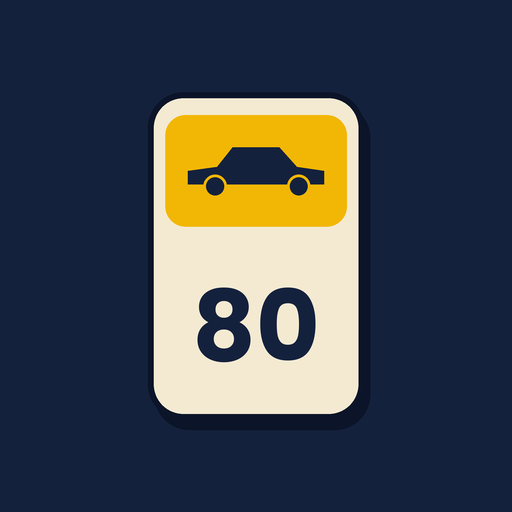
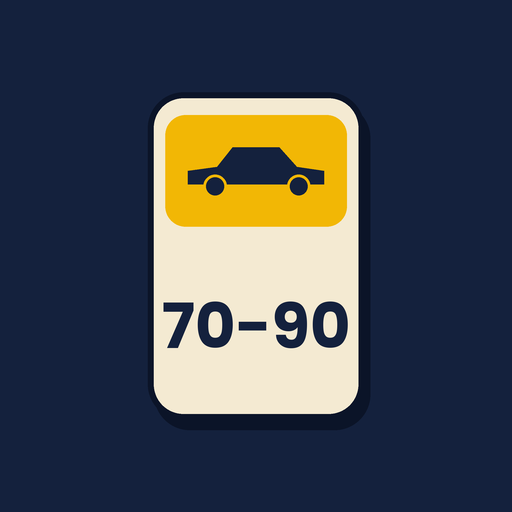
Add files via upload

Changed region(s): [[0.3125, 0.5625, 0.6875, 0.7188]]

diff --git a/index.html b/index.html
@@ -6,8 +6,8 @@
 <meta name="theme-color" content="#14213D">
 <meta name="apple-mobile-web-app-capable" content="yes">
 <meta name="mobile-web-app-capable" content="yes">
-<meta name="apple-mobile-web-app-title" content="Naipes 80-90">
-<title>Naipes: autos argentinos de los 80 a los 90</title>
+<meta name="apple-mobile-web-app-title" content="Naipes 70-90">
+<title>Naipes: autos argentinos de los 70 a los 90</title>
 <link rel="manifest" href="manifest.json">
 <link rel="icon" href="icon-192.png">
 <link rel="apple-touch-icon" href="icon-192.png">
@@ -138,7 +138,7 @@ body{background:radial-gradient(120% 45% at 50% -8%,#33468a77,#0000 65%),repeati
 .btn.big:active{transform:translateY(3px);border-bottom-width:2px;box-shadow:0 3px 8px #0006}
 .hd{position:relative;overflow:hidden;border:3px solid var(--gold);border-radius:22px;padding:22px 16px 18px;background:linear-gradient(155deg,#E4572E 0%,#B3261E 55%,#6E0F1A 100%);box-shadow:0 8px 0 #0008,0 14px 26px #0008}
 .hd::before{content:"";position:absolute;left:0;right:0;top:0;height:12px;background:repeating-conic-gradient(#fff 0 25%,#111 0 50%) 0 0/12px 12px;opacity:.85}
-.hd::after{content:"80·90";position:absolute;right:-8px;bottom:-26px;font-family:var(--disp);font-size:120px;line-height:1;color:#ffffff1f;letter-spacing:.04em;pointer-events:none}
+.hd::after{content:"70·90";position:absolute;right:-8px;bottom:-26px;font-family:var(--disp);font-size:120px;line-height:1;color:#ffffff1f;letter-spacing:.04em;pointer-events:none}
 .hd .yr{font-family:var(--disp);letter-spacing:.34em;font-size:16px;color:#FFE27A;margin-top:6px}
 .hd h1{font-size:46px;line-height:.98;margin-top:2px;text-shadow:0 3px 0 #0007;color:#fff}
 .hd h1 em{font-style:normal;color:var(--gold)}
@@ -359,21 +359,21 @@ const TEC = [
  ['Dodge','1500','sedan',1.5,72,19,1971,'','dodge-1500',0,0],
  ['Dodge','1500 1.8','sedan',1.8,92,19,1971,'','dodge-1500',0,0],
  ['Fiat','1600 Coupé','coupe',1.6,80,3,1970,'Valor aproximado','fiat-1600-coupe',1,1],
- ['Fiat','128 1.1','sedan',1.1,55,19,1971,'Potencia en PS','fiat-128',0,0],
- ['Fiat','128 1.3','sedan',1.3,60,19,1971,'Potencia en PS','fiat-128',0,0],
- ['Fiat','125','sedan',1.6,90,7,1975,'Potencia en PS','fiat-125',0,0],
- ['Fiat','125 S','sedan',1.6,100,7,1975,'Potencia en PS','fiat-125',0,0],
- ['Fiat','133','hatch',0.9,40,5,1977,'Potencia en PS','fiat-133',0,0],
+ ['Fiat','128 1.1','sedan',1.1,55,19,1971,'Potencia en CV','fiat-128',0,0],
+ ['Fiat','128 1.3','sedan',1.3,60,19,1971,'Potencia en CV','fiat-128',0,0],
+ ['Fiat','125','sedan',1.6,90,7,1975,'Potencia en CV','fiat-125',0,0],
+ ['Fiat','125 S','sedan',1.6,100,7,1975,'Potencia en CV','fiat-125',0,0],
+ ['Fiat','133','hatch',0.9,40,5,1977,'Potencia en CV','fiat-133',0,0],
  ['Ford','Ranchero','pickup',3.0,105,16,1971,'Valor aproximado','ford-ranchero',1,1],
- ['Ford','Taunus L','sedan',2.0,92,9,1974,'Potencia SAE','ford-taunus',0,0],
- ['Ford','Taunus GXL','sedan',2.3,122,9,1974,'Potencia SAE','ford-taunus',0,0],
- ['Ford','Taunus Coupé SP5','sedan',2.3,132,9,1974,'Potencia SAE','ford-taunus',0,0],
+ ['Ford','Taunus L','sedan',2.0,92,9,1974,'Potencia SAE (bruta), en CV','ford-taunus',0,0],
+ ['Ford','Taunus GXL','sedan',2.3,122,9,1974,'Potencia SAE (bruta), en CV','ford-taunus',0,0],
+ ['Ford','Taunus Coupé SP5','sedan',2.3,132,9,1974,'Potencia SAE (bruta), en CV','ford-taunus',0,0],
  ['IAME','Rastrojero Conosur','sedan',1.5,55,5,1974,'Valor aproximado','iame-conosur',1,1],
  ['Mercedes','220 D Pickup','pickup',2.2,60,4,1972,'','mercedes-220d',0,0],
  ['Opel','K 180','sedan',1.8,83,4,1974,'','opel-k180',0,0],
  ['Renault','12 TS','sedan',1.4,74,24,1970,'','renault-12',0,0],
- ['Renault','12 Alpine','sedan',1.4,110,24,1970,'Potencia en PS','renault-12',0,0],
- ['Renault','12 Gordini (Francia)','sedan',1.6,113,24,1970,'Potencia en PS','renault-12',0,0],
+ ['Renault','12 Alpine','sedan',1.4,110,24,1970,'Potencia en CV','renault-12',0,0],
+ ['Renault','12 Gordini (Francia)','sedan',1.6,113,24,1970,'Potencia en CV','renault-12',0,0],
  ['Chevrolet','D-20 Diésel','pickup',4.0,89,4,1993,'potencia convertida a CV (fuente en hp)','chevrolet-d20',0,0],
  ['Chevrolet','D-20 Turbo','pickup',4.0,125,4,1993,'potencia convertida a CV (fuente en hp), 1991','chevrolet-d20',0,0],
  ['Chevrolet','D-20 Turbo Plus','pickup',4.0,149,4,1993,'potencia convertida a CV (fuente en hp), 1995','chevrolet-d20',0,0],
@@ -483,7 +483,7 @@ const HIS = [
  ['Volkswagen','Caddy','Utilitario',1996,2008,'vw-caddy','van'],
 ];
 // Período del juego: se muestran solo los modelos lanzados desde este año (los datos de antes siguen en TEC y HIS)
-const AMIN = 1980;
+const AMIN = 1970;
 const MODELOS = HIS.filter(h => h[3] >= AMIN).map(h => ({key:h[5], marca:h[0], modelo:h[1], shape:h[6]}));
 const NOMBRE = {}; MODELOS.forEach(m => NOMBRE[m.key] = m);
 const FICHAS = {
@@ -1439,7 +1439,7 @@ function resumenDia(h){
 }
 function textoDia(h){
   const r = rachaVigente(), url = location.origin + location.pathname.replace(/index\.html$/, '');
-  return `Naipes 80-90 · Desafío #${h.num} (${fechaCorta(h.clave)})\n${h.fin === 'you' ? '🏆' : h.fin === 'cpu' ? '🏁' : '🤝'} ${resumenDia(h)} · Mazo ${DECKS[h.deck].nombre}\n${h.hist.split('').map(x => EMO[x]).join('')}${r > 1 ? '\n🔥 Racha: ' + r + ' días' : ''}\n${url}`;
+  return `Naipes 70-90 · Desafío #${h.num} (${fechaCorta(h.clave)})\n${h.fin === 'you' ? '🏆' : h.fin === 'cpu' ? '🏁' : '🤝'} ${resumenDia(h)} · Mazo ${DECKS[h.deck].nombre}\n${h.hist.split('').map(x => EMO[x]).join('')}${r > 1 ? '\n🔥 Racha: ' + r + ' días' : ''}\n${url}`;
 }
 async function compartirTexto(){
   const h = S.dia.hecho; if(!h) return;
@@ -1454,7 +1454,7 @@ async function imagenDia(h){
   let g = x.createLinearGradient(0,0,0,H); g.addColorStop(0,'#16254a'); g.addColorStop(1,'#0B1428'); x.fillStyle = g; x.fillRect(0,0,W,H);
   g = x.createLinearGradient(0,0,W,380); g.addColorStop(0,'#E4572E'); g.addColorStop(.55,'#B3261E'); g.addColorStop(1,'#6E0F1A'); x.fillStyle = g; x.fillRect(0,0,W,380);
   for(let i=0;i<W/30;i++) for(let j=0;j<2;j++){ x.fillStyle = (i+j)%2 ? '#111' : '#fff'; x.fillRect(i*30, j*30, 30, 30); }
-  x.textAlign = 'center'; x.fillStyle = '#fff'; x.font = '140px "Bebas Neue", Impact, sans-serif'; x.fillText('NAIPES 80-90', W/2, 215);
+  x.textAlign = 'center'; x.fillStyle = '#fff'; x.font = '140px "Bebas Neue", Impact, sans-serif'; x.fillText('NAIPES 70-90', W/2, 215);
   x.fillStyle = '#FFE27A'; x.font = '700 44px "Barlow Condensed", Arial Narrow, sans-serif'; x.fillText(`DESAFÍO #${h.num} · ${fechaCorta(h.clave)}`, W/2, 300);
   const col = h.fin === 'you' ? '#6fcf97' : h.fin === 'cpu' ? '#ff7b72' : '#F2B705';
   x.fillStyle = col; x.font = '200px "Bebas Neue", Impact, sans-serif'; x.fillText(h.fin === 'you' ? 'GANÉ' : h.fin === 'cpu' ? 'PERDÍ' : 'EMPATÉ', W/2, 600);
@@ -1468,7 +1468,7 @@ async function imagenDia(h){
   }
   const r = rachaVigente();
   if(r > 1){ x.fillStyle = '#F2B705'; x.font = '700 48px "Barlow Condensed", Arial Narrow, sans-serif'; x.fillText(`RACHA: ${r} DÍAS`, W/2, 920 + filas * (sz+gap) + 50); }
-  x.fillStyle = '#F4EAD2aa'; x.font = '700 32px "Barlow Condensed", Arial Narrow, sans-serif'; x.fillText('Autos argentinos de los 80 a los 90 · Seba Branda', W/2, H - 50);
+  x.fillStyle = '#F4EAD2aa'; x.font = '700 32px "Barlow Condensed", Arial Narrow, sans-serif'; x.fillText('Autos argentinos de los 70 a los 90 · Seba Branda', W/2, H - 50);
   return new Promise(ok => c.toBlob(ok, 'image/png'));
 }
 async function compartirImagen(){
@@ -1539,7 +1539,7 @@ function pantallaInicio(){
   const tams = Object.keys(TAMANOS).map(k => `<button class="opt ${S.pref.size===k?'on':''}" data-act="size" data-v="${k}"><b>${TAMANOS[k].t}</b><small>${TAMANOS[k].d}</small></button>`).join('');
   const difs = Object.keys(DIFS).map(k => `<button class="opt ${S.pref.dif===k?'on':''}" data-act="dif" data-v="${k}"><b>${DIFS[k].t}</b><small>${DIFS[k].d}</small></button>`).join('');
   const inst = S.deferred ? `<button class="btn" data-act="instalar">Instalar la app</button>` : (iosSinInstalar() ? `<div class="note">Para instalarla en iPhone o iPad: tocá Compartir y después "Agregar a pantalla de inicio".</div>` : '');
-  return `<div class="hd"><div class="yr">NAIPES · 1980—1999</div><h1>Autos argentinos<br><em>de los 80 a los 90</em></h1><div class="sub">Juego de naipes contra la computadora</div></div>
+  return `<div class="hd"><div class="yr">NAIPES · 1970—1999</div><h1>Autos argentinos<br><em>de los 70 a los 90</em></h1><div class="sub">Juego de naipes contra la computadora</div></div>
     ${bloqueDia()}
     <div class="group"><label>Mazo</label><div class="opts">${mazos}</div></div>
     <div class="group"><label>Tamaño de la partida</label><div class="opts seg">${tams}</div></div>
@@ -1571,7 +1571,7 @@ function pantallaDos(g, deck){
   const cab = `<div class="bar"><button class="btn sm" data-act="salir">Salir</button><div class="score">${marc('you')}<span class="vs">VS</span>${marc('cpu')}</div><div class="rd">R${g.ronda}</div></div>
     <div class="meter"><span style="width:${pct}%"></span></div>
     <div class="pozo">Dos jugadores${g.pot.length ? ' · Pozo: ' + g.pot.length + ' cartas' : ''}</div>`;
-  if(pase) return `${cab}<div class="pase"><div class="back"><span>NAIPES 80-90</span><small>Carta oculta</small></div>
+  if(pase) return `${cab}<div class="pase"><div class="back"><span>NAIPES 70-90</span><small>Carta oculta</small></div>
     <h2>Turno de ${esc(nm[g.turn])}</h2><p>Pasale el celu a ${esc(nm[g.turn])}.<br>${esc(nm[otro(g.turn)])}, no mires.</p>
     <button class="btn big" data-act="pase">Listo, soy ${esc(nm[g.turn])}</button></div>`;
   const yo = reveal ? g.quien : g.turn, el = otro(yo);
@@ -1584,7 +1584,7 @@ function pantallaDos(g, deck){
     msg = `${nm[g.quien]} eligió ${st.label}: ${fmt(st, cy.v[st.id], cy)}${u} contra ${fmt(st, ce.v[st.id], ce)}${u}. ` + (g.res === 'tie' ? 'Empate: las cartas van al pozo.' : `Ganó la ronda ${nm[g.res]}.`);
   } else msg = `${nm[yo]}: tocá una característica de tu carta.`;
   const opp = reveal ? cartaHTML(de(el), deck, {compact:true, sel:g.sel, res:rj[el], n:nm[el], rojo:el === 'cpu'})
-    : `<div class="back"><span>NAIPES 80-90</span><small>Carta de ${esc(nm[el])}</small></div>`;
+    : `<div class="back"><span>NAIPES 70-90</span><small>Carta de ${esc(nm[el])}</small></div>`;
   return `${cab}<div class="msg ${reveal && g.res !== 'tie' ? (g.res === yo ? 'win' : 'lose') : ''}">${esc(msg)}</div>${opp}
     ${cartaHTML(de(yo), deck, {canPick:!reveal, sel:g.sel, res:rj[yo], n:nm[yo], rojo:yo === 'cpu'})}
     ${reveal ? `<button class="btn big" data-act="next">Siguiente</button>` : ''}`;
@@ -1599,7 +1599,7 @@ function pantallaJuego(){
   const clsMsg = reveal ? (g.res === 'you' ? 'win' : g.res === 'cpu' ? 'lose' : '') : '';
   const oponente = reveal
     ? cartaHTML(g.shown.b, deck, {compact:true, sel:g.sel, res:resCpu, n:'Compu'})
-    : `<div class="back"><span>NAIPES 80-90</span><small>Carta de la compu</small></div>`;
+    : `<div class="back"><span>NAIPES 70-90</span><small>Carta de la compu</small></div>`;
   const tot = g.you.length + g.cpu.length, pct = tot ? Math.round(100 * g.you.length / tot) : 50;
   const turnoYo = !reveal && g.turn === 'you', turnoCpu = !reveal && g.turn === 'cpu';
   return `<div class="bar"><button class="btn sm" data-act="salir">Salir</button>

diff --git a/sw.js b/sw.js
@@ -1,5 +1,5 @@
 // Subir el número de versión en cada deploy
-const CACHE_NAME = 'naipes80-v37';
+const CACHE_NAME = 'naipes80-v38';
 const ASSETS = ['./', './index.html', './manifest.json', './icon-192.png', './icon-512.png', './icon-maskable-512.png'];
 
 self.addEventListener('install', e => {
